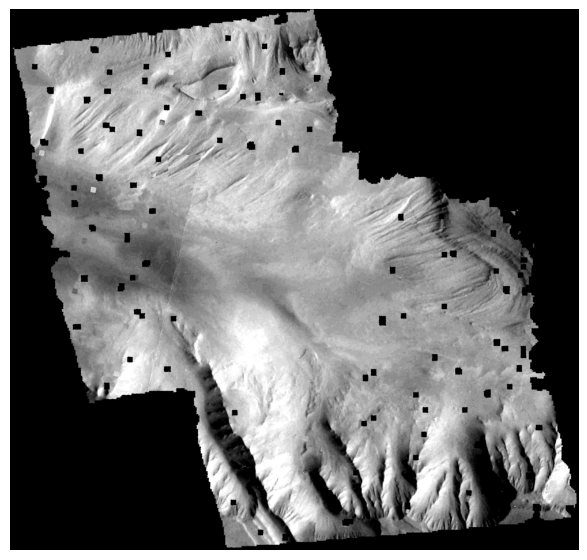
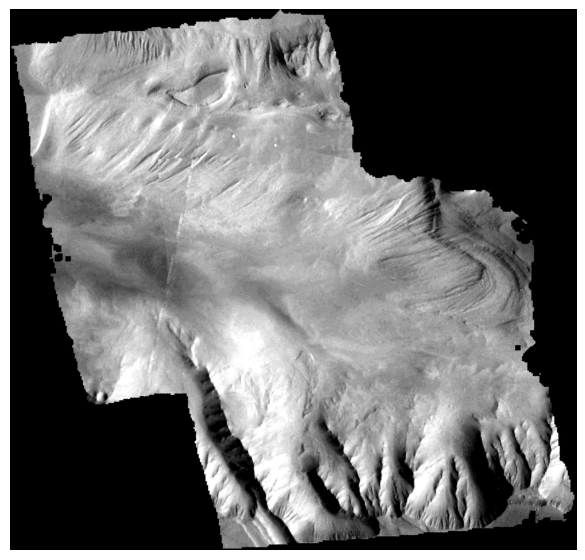
viking: add reseau hole-fill (gdal_fillnodata) to the recipe
Add a fourth preprocessing step that fills the nulled reseau boxes the
median filter leaves behind, using gdal_fillnodata (shipped with ASP).
This removes the reseau grid from the DEM and orthoimage and lowers the
DEM error against the reference. Note gdal_fillnodata in the GDAL tool
list. Regenerate the frames, DEM, and ortho figures from the filled run.

diff --git a/docs/examples/viking.rst b/docs/examples/viking.rst
@@ -71,7 +71,7 @@ Additional preprocessing
 The calibration and reseau removal leave a few percent of pixels with
 out-of-range float values: a checkered pattern at the reseau nodes and scattered
 vidicon speckle. These pollute both interest-point matching and stereo
-correlation, so remove them in three steps.
+correlation, so remove them in four steps.
 
 First, null the pixels outside the valid terrain band with ISIS ``specpix``. The
 terrain sits in a narrow band (roughly 0.09 to 0.16); values below 0.02 or above
@@ -89,38 +89,43 @@ Second, clamp the values to the terrain band with ``image_calc``
 (:numref:`image_calc`), which also writes a plain TIFF. This caps the few percent
 of pixels above and below the band, including saturated speckle::
 
-    image_calc -c 'max(min(var_0, 0.16), 0.07)' f912a14.mask.cub -o f912a14_clamp.tif
+    image_calc -c 'max(min(var_0, 0.16), 0.07)' \
+      f912a14.mask.cub -o f912a14_clamp.tif
 
 These bounds may differ for other images, and can likely be relaxed somewhat,
 since the heavy lifting is done by the median filter step below.
 
-Third, denoise and infill with a median filter. What remains is salt-and-pepper
-speckle and scattered no-data from the reseau removal, and this is what most
-misleads ``asp_mgm`` correlation: it looks minor zoomed out but trips up the dense
-matcher up close. A 3 by 3 median that replaces a pixel by the median of its
-window when at least 6 of the 9 pixels are valid removes the speckle and fills the
-small holes, while leaving clean terrain nearly unchanged::
+Third, remove the salt-and-pepper speckle with a median filter. The speckle is
+what most misleads ``asp_mgm`` correlation: it looks minor when zoomed out, but it
+trips up the dense matcher up close. A 3 by 3 median replaces a pixel by the median
+of its window when at least 6 of the 9 pixels are valid. This removes the speckle
+and fills the smallest holes, while leaving clean terrain nearly unchanged::
 
-    image_calc --median-filter '3 6' f912a14_clamp.tif -o f912a14.tif
+    image_calc --median-filter '3 6'       \
+      f912a14_clamp.tif -o f912a14_med.tif
+
+Fourth, fill the remaining no-data holes with ``gdal_fillnodata`` (shipped with
+ASP, :numref:`gdal_tools`). The median cannot fill the larger reseau boxes, which
+otherwise leave a grid of holes in the DEM and orthoimage. This step interpolates
+each hole from its valid neighbors and touches only the no-data pixels, so the
+terrain is left unchanged. A small maximum distance keeps it from inventing data
+across the image border::
+
+    gdal_fillnodata -md 6 f912a14_med.tif f912a14.tif
 
 ``image_calc`` handles ISIS special pixels correctly (they are masked using the
 cube's valid range), so it can read the cube directly. Repeat all steps for each
-frame. Denoising is the single biggest lever on this data: it roughly halves the
-final DEM error against the reference.
-
-The reseau grid sits at a fixed detector location, so in ground coordinates it
-falls at a different place in each frame and is filled from neighboring frames
-when the DEMs are mosaicked.
+frame. This preprocessing is the single biggest lever on this data: it roughly
+halves the final DEM error against the reference.
 
 .. figure:: ../images/viking_frames.png
    :name: viking_frames
    :alt: Four cleaned Viking frames
 
-   The four cleaned and clamped frames, stretched to a pixel value range of 0.09
-   to 0.16. Top row: ``f912a14`` and ``f912a57`` (orbit 912). Bottom row:
-   ``f913a15`` and ``f913a56`` (orbit 913). The no-data holes are the masked
-   reseau grid and speckle; they fall at different ground locations in each frame
-   and are filled from neighboring frames in the mosaic.
+   The four preprocessed frames, stretched to a pixel value range of 0.09 to 0.16.
+   Top row: ``f912a14`` and ``f912a57`` (orbit 912). Bottom row: ``f913a15`` and
+   ``f913a56`` (orbit 913). The speckle and reseau grid have been removed and the
+   reseau holes filled, so the frames carry no interior no-data.
 
 .. _viking_ref_dem:
 
@@ -134,7 +139,8 @@ being gap-free and global at 200 m/pixel.
 
 Set the URL for the remote DEM location::
 
-    url=https://planetarymaps.usgs.gov/mosaic/Mars/HRSC_MOLA_Blend/Mars_HRSC_MOLA_BlendDEM_Global_200mp_v2.tif
+    base=https://planetarymaps.usgs.gov/mosaic/Mars/HRSC_MOLA_Blend
+    url=$base/Mars_HRSC_MOLA_BlendDEM_Global_200mp_v2.tif
 
 Crop the region of interest directly over the network with ``gdal_translate``
 and ``/vsicurl`` (the global file is large)::
@@ -194,8 +200,8 @@ order* (do not use ``ls``, which sorts the names)::
 
     rm -f images.txt cameras.txt
     for id in f912a14 f912a57 f913a15 f913a56; do
-      echo ${id}.tif >> images.txt
-      echo ${id}.json      >> cameras.txt
+      echo ${id}.tif  >> images.txt
+      echo ${id}.json >> cameras.txt
     done
 
 Then run ``bundle_adjust`` (:numref:`bundle_adjust`)::
@@ -292,12 +298,12 @@ none``::
 
     for id in f912a14 f912a57 f913a15 f913a56; do
       mapproject                         \
+        --t_srs "$proj"                  \
+        --tr 50                          \
         ref.tif                          \
         ${id}.tif                        \
         cams/run-$id.adjusted_state.json \
-        $id.map.tif                      \
-        --t_srs "$proj"                  \
-        --tr 50
+        $id.map.tif
     done
 
     parallel_stereo                          \
@@ -350,7 +356,7 @@ reference the first argument::
 Repeat for each pair. Then combine the aligned DEMs with ``dem_mosaic``
 (:numref:`dem_mosaic`) into ``mosaic.tif``.
 
-The resulting mosaic agrees with the reference to about 110 m (median absolute
+The resulting mosaic agrees with the reference to about 40 m (median absolute
 difference), with a median bias of only a few meters, well within the reference's
 resolution.
 
@@ -367,9 +373,9 @@ were then colorized and hillshaded, such as with ``colormap`` (:numref:`colormap
 
    Colorized hillshade on a common elevation range and identical grid. Left: the
    Viking four-pair DEM mosaic. Right: the HRSC/MOLA reference regridded to the
-   same grid. The elevations agree (same color pattern), while the Viking DEM
-   resolves considerably more detail than the coarser reference. The elevation
-   range was -2889 to 5235 meters.
+   same grid. The elevations agree (same color pattern). The Viking DEM
+   shows more detail but also has some numerical artifacts. The elevation
+   range was -2600 to 4612 meters.
 
 Orthoimage mosaic
 ~~~~~~~~~~~~~~~~~
@@ -379,13 +385,13 @@ Mapproject each frame onto the DEM with its aligned camera at the estimated
 ground sample distance grid::
 
     for id in f912a14 f912a57 f913a15 f913a56; do
-      mapproject                             \
-        mosaic.tif                           \
-        $id.tif                              \
-        cams/run-$id.adjusted_state.json     \
-        $id.ortho.tif                        \
-        --t_srs "$proj"                      \
-        --tr 50
+      mapproject                         \
+        --t_srs "$proj"                  \
+        --tr 50                          \
+        mosaic.tif                       \
+        $id.tif                          \
+        cams/run-$id.adjusted_state.json \
+        $id.ortho.tif
     done
 
 The vidicon frames differ in overall brightness, which can show as a seam in the

diff --git a/docs/tools/gdal.rst b/docs/tools/gdal.rst
@@ -7,6 +7,7 @@ ASP distributes in the ``bin`` directory the following `GDAL
 <https://gdal.org/>`_ programs:
 
 - gdal_rasterize (modify images based on shape files)
+- gdal_fillnodata (interpolate no-data holes from valid neighbors)
 - gdal_translate (crop, resample)
 - gdalbuildvrt (mosaic)
 - gdaldem (hillshade)
